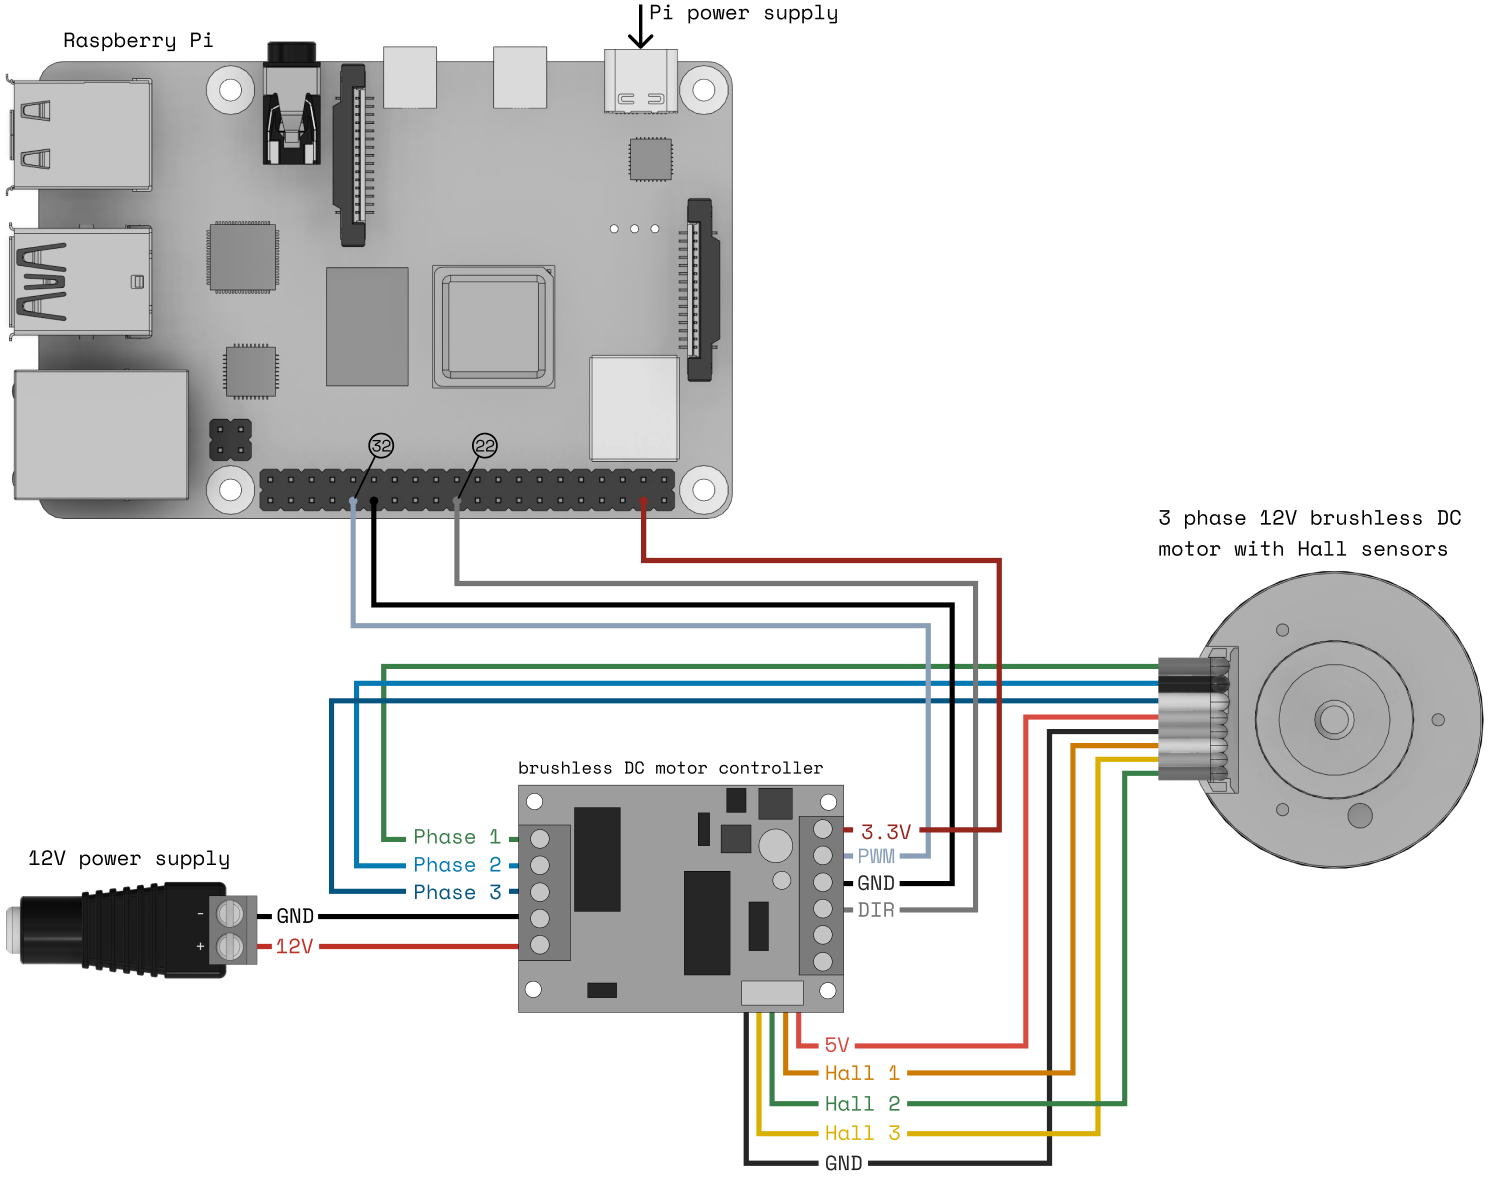
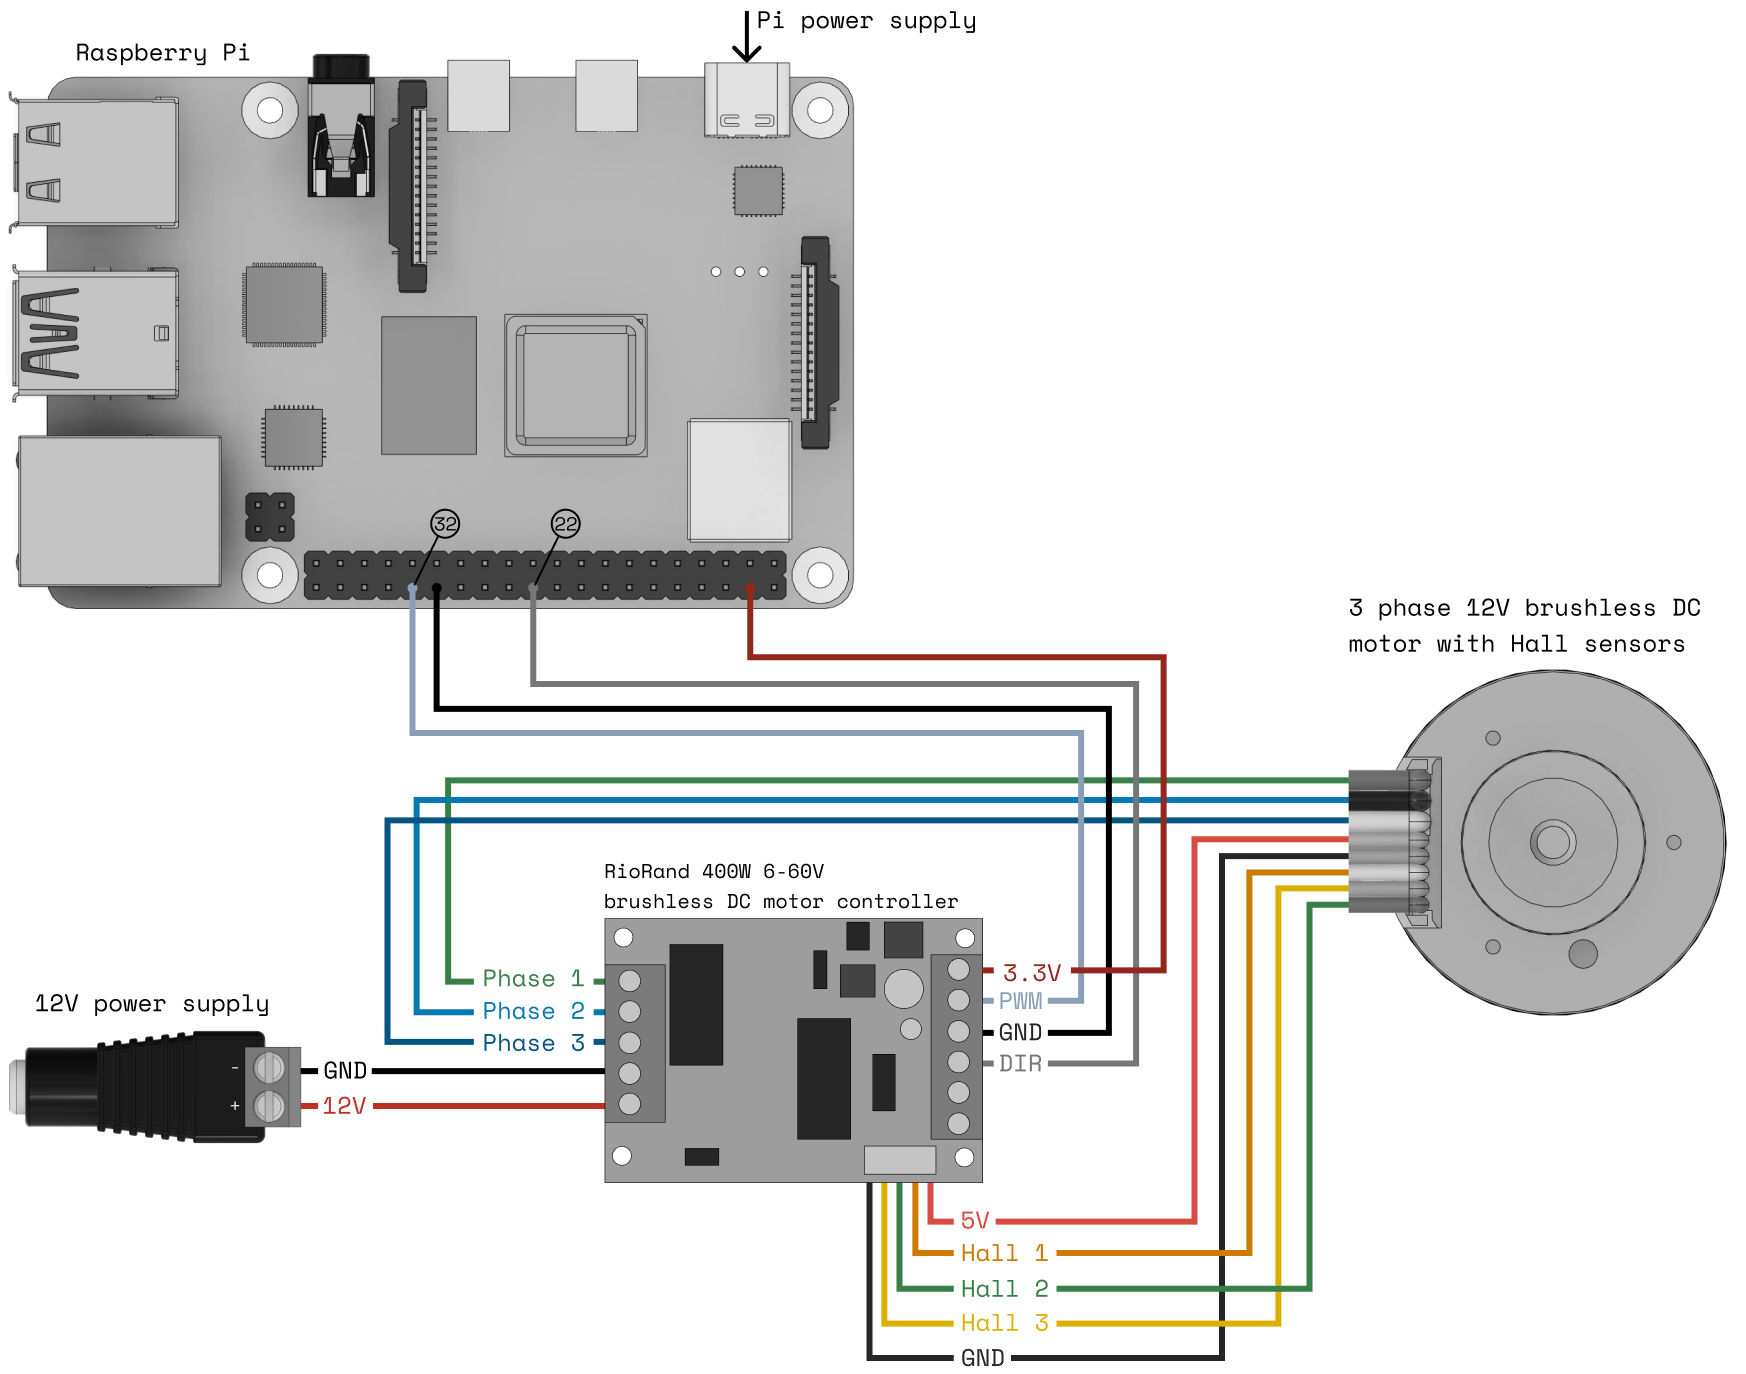
clarify which motor drivers are used in diagrams

diff --git a/docs/tutorials/webcam-line-follower-robot.md b/docs/tutorials/webcam-line-follower-robot.md
@@ -196,7 +196,7 @@ Run,<br><span class="file">nano rgbFollower.py</span><br>(or replace <span class
 <ol><li class="spacing">Go to your robot’s page on the Viam App (<a href="https://app.viam.com">https://app.viam.com</a>). Verify that it’s connected by refreshing the page and ensuring that <strong>Last Online</strong> (in the top banner) says, “Live.”</li>
 <li class="spacing">Go to the <strong>Control</strong> tab and try viewing the camera and also  pressing buttons in the Base section to move your robot around. 
 Ensure that the base moves as expected. 
-If one or both drive motors are going backwards, you can power down the Pi, unplug the battery, and switch the wires to the motor before powering it back on.</li>
+If one or both drive motors are going backwards, you can power down the Pi by running `sudo poweroff`, unplug the battery, and switch the wires to the motor before powering it back on.</li>
 <p  class="Mycaption"><em>Figure 3: Driving the base from the Viam App's Control tab.</em><br>
 <img class="spacing" src="/tutorials/img/LF-viamapp-base-view5.gif" width="600" /></p></li>
 <li class="spacing">Now for the creative part: Use your colored tape to make a path for your robot to follow. 
@@ -236,21 +236,13 @@ You have a rover following a path of your choice, anywhere you want it to go!
 
 ## Troubleshooting
 
-### Issue #1: The rover moves to fast to track the line
+### Issue #1: The rover moves too fast to track the line
 If your rover keeps driving off the line so fast that the color detector can’t keep up, you can try two things:
-<ol>
-<li class="spacing">Slow down the move straight and turning speeds of the rover by decreasing the  the numbers in:
 
-<span class=file>base.set_power(Vector3(y=0.3), Vector3())</span><br>
-
-and both instances of:</br>
-
-<span class=file>base.set_power(Vector3(), Vector3(z=0.25))</span><br>
-    
-If your rover is moving too slowly or stalling, increase the numbers (closer to 1.0 which represents full power).</li>
-<li class="spacing">Position the camera differently, perhaps so that it is higher above the floor but still pointing downward. 
-This will give it a wider field of view so it takes longer for the line to go out of view.</li>
-</ol></ol>
+1. Slow down the move straight and turning speeds of the rover by decreasing the  the numbers in `base.set_power(Vector3(y=0.3), Vector3())` and both instances of `base.set_power(Vector3(), Vector3(z=0.25))`.
+    - Conversely if your rover is moving too slowly or stalling, increase the numbers (closer to 1.0 which represents full power).</li>
+2. Position the camera differently, perhaps so that it is higher above the floor but still pointing downward. 
+This will give it a wider field of view so it takes longer for the line to go out of view.
 
 ### Issue #2: None
 N/A

diff --git a/docs/components/motor.md b/docs/components/motor.md
@@ -149,7 +149,9 @@ Some motors come with encoders integrated or attached to them.
 Other times, you may add an encoder to a motor.
 See the [Encoder Component Doc](encoder.md) for more information on encoders.
 
-### Wiring  
+### Wiring
+
+Here's an example of an encoded DC motor wired with [this motor driver](https://www.pololu.com/product/2961).
 
 ![motor-encoded-dc-wiring](img/motor-encoded-dc-wiring.png)  
 
